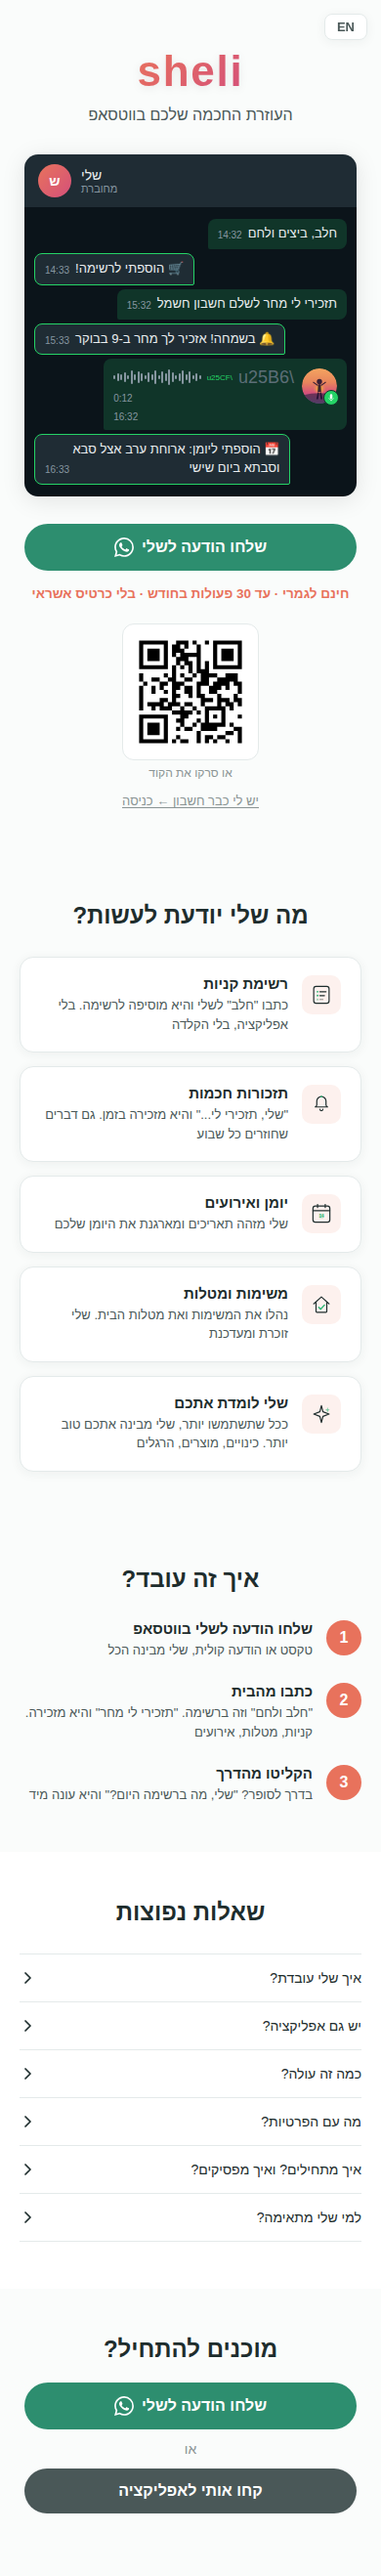
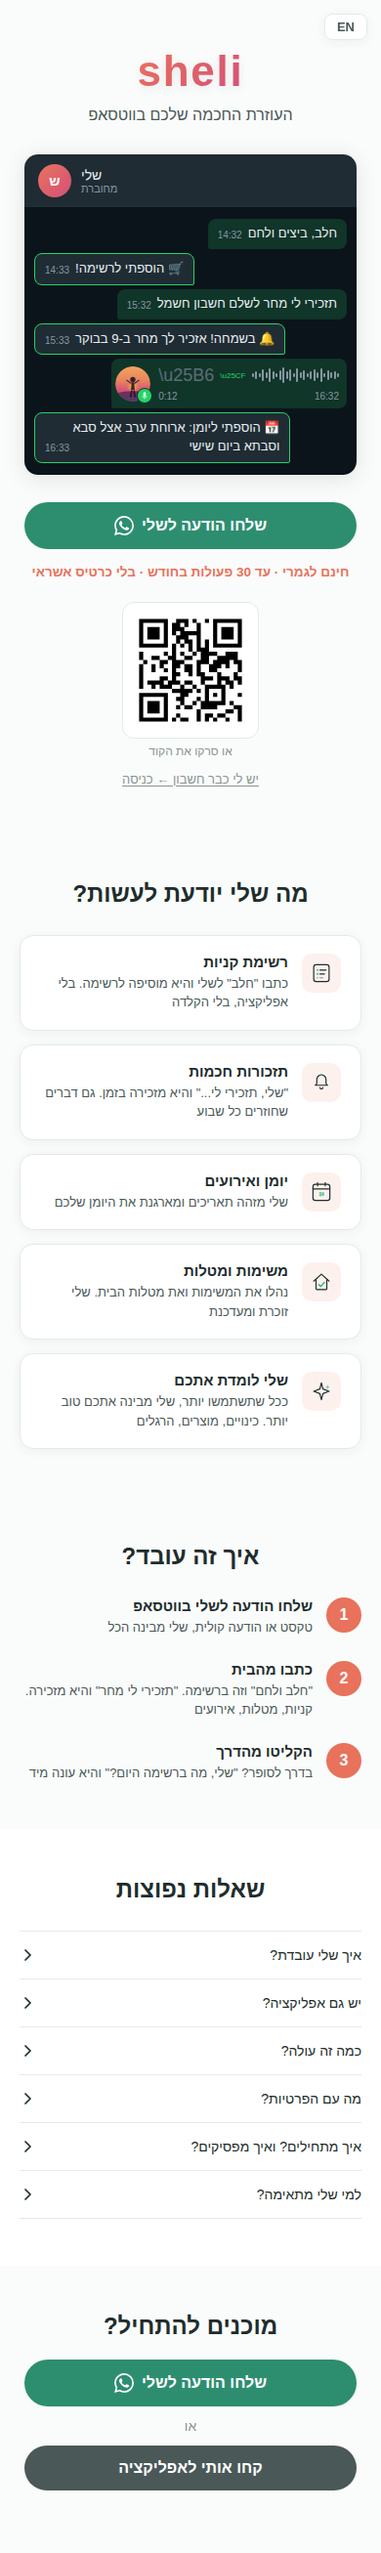
fix: voice bubble matches WhatsApp exactly — LTR layout, no sender name
- Voice bubble forced to direction:ltr (avatar always on left,
  matching WhatsApp regardless of page language)
- No sender name — just profile image + mic badge + waveform + 0:12
- Duration on left, timestamp on right (WhatsApp layout)
- Tighter padding on voice bubble
- Text bubbles still use per-language direction

https://claude.ai/code/session_01Q1JpJbQf1Zpp2Q6Tpo9kpg

diff --git a/src/components/LandingPage.jsx b/src/components/LandingPage.jsx
@@ -155,8 +155,8 @@ export default function LandingPage({ onGetStarted, onSignIn }) {
             {c.mockMessages.map((msg, i) => (
               <div
                 key={i}
-                className={`wa-bubble wa-bubble-${msg.type === "voice" ? "user" : msg.type}`}
-                style={{ animationDelay: `${i * 0.15}s`, direction: c.dir }}
+                className={`wa-bubble wa-bubble-${msg.type === "voice" ? "user wa-bubble-voice" : msg.type}`}
+                style={{ animationDelay: `${i * 0.15}s`, direction: msg.type === "voice" ? "ltr" : c.dir }}
               >
                 {msg.type === "voice" ? (
                   <span className="wa-voice">
@@ -174,13 +174,22 @@ export default function LandingPage({ onGetStarted, onSignIn }) {
                           <span /><span /><span /><span /><span /><span /><span /><span /><span /><span /><span /><span /><span /><span /><span /><span /><span /><span /><span /><span /><span /><span /><span /><span /><span /><span />
                         </span>
                       </span>
-                      <span className="wa-voice-dur">{msg.duration}</span>
+                      <span className="wa-voice-meta">
+                        <span className="wa-voice-dur">{msg.duration}</span>
+                        <span className="wa-bubble-time">
+                          {`${14 + Math.floor(i / 2)}:${i % 2 === 0 ? "32" : "33"}`}
+                        </span>
+                      </span>
                     </span>
                   </span>
-                ) : msg.text}
-                <span className="wa-bubble-time">
-                  {`${14 + Math.floor(i / 2)}:${i % 2 === 0 ? "32" : "33"}`}
-                </span>
+                ) : (
+                  <>
+                    {msg.text}
+                    <span className="wa-bubble-time">
+                      {`${14 + Math.floor(i / 2)}:${i % 2 === 0 ? "32" : "33"}`}
+                    </span>
+                  </>
+                )}
               </div>
             ))}
           </div>

diff --git a/src/styles/landing.css b/src/styles/landing.css
@@ -279,11 +279,24 @@
 .wa-voice-bars span:nth-child(25) { height: 8px; }
 .wa-voice-bars span:nth-child(26) { height: 4px; }
 
+.wa-voice-meta {
+  display: flex;
+  align-items: center;
+  justify-content: space-between;
+}
+
 .wa-voice-dur {
   font-size: 10px;
   color: #8696a0;
-  flex-shrink: 0;
-  direction: ltr;
+}
+
+.wa-voice-meta .wa-bubble-time {
+  float: none;
+  margin: 0;
+}
+
+.wa-bubble-voice {
+  padding: 4px 8px 4px 4px;
 }
 
 @keyframes msgIn {
